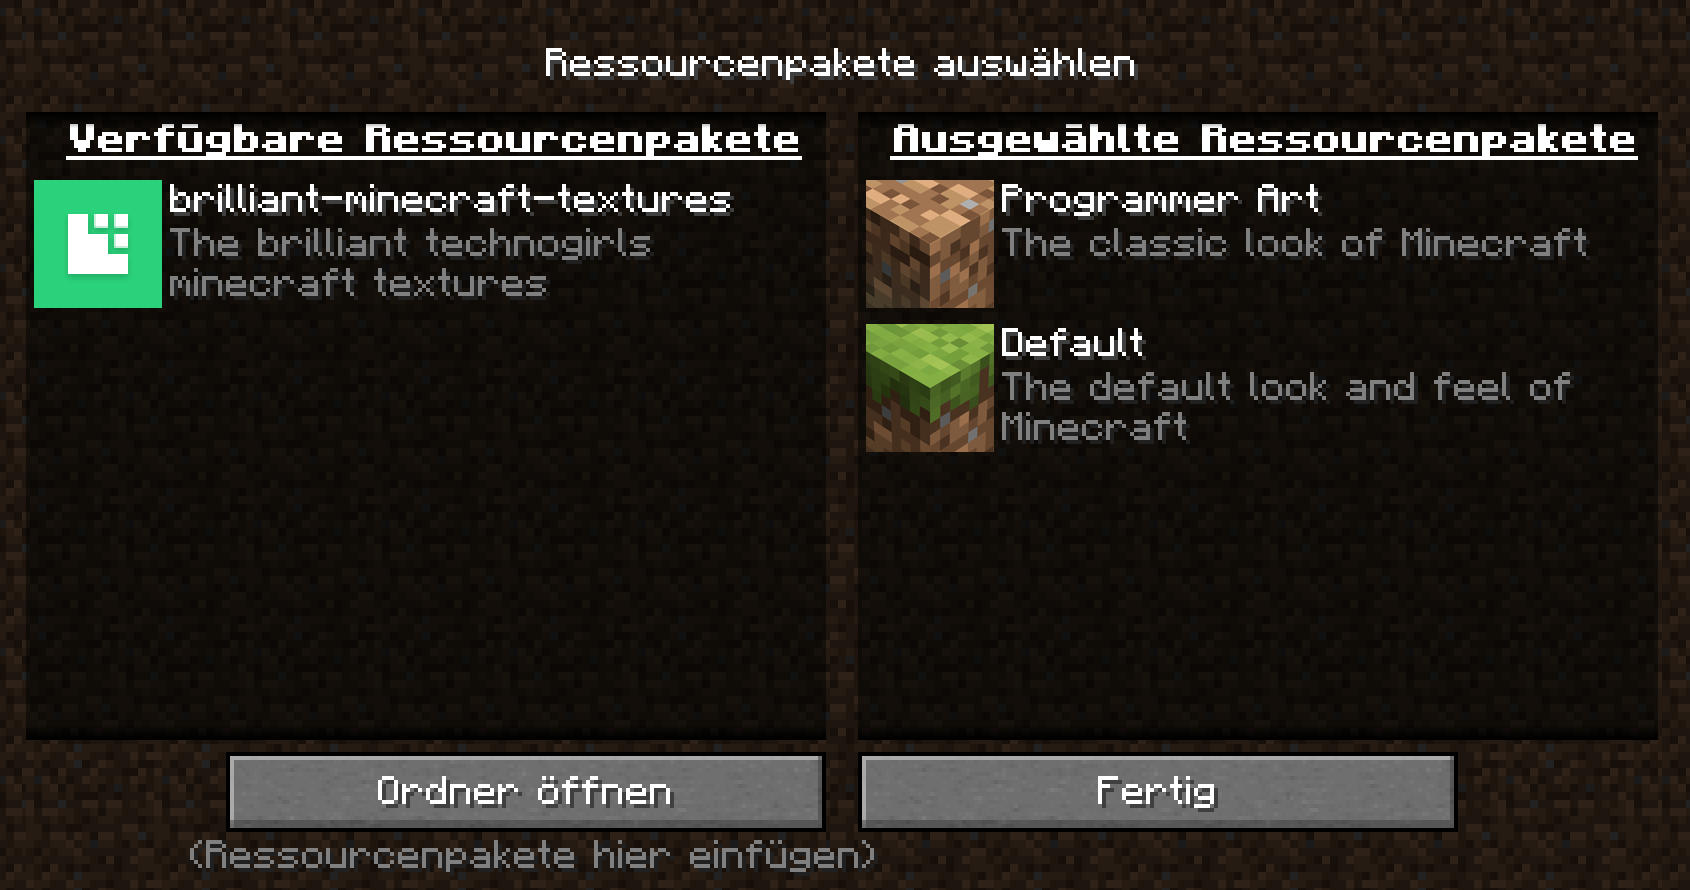
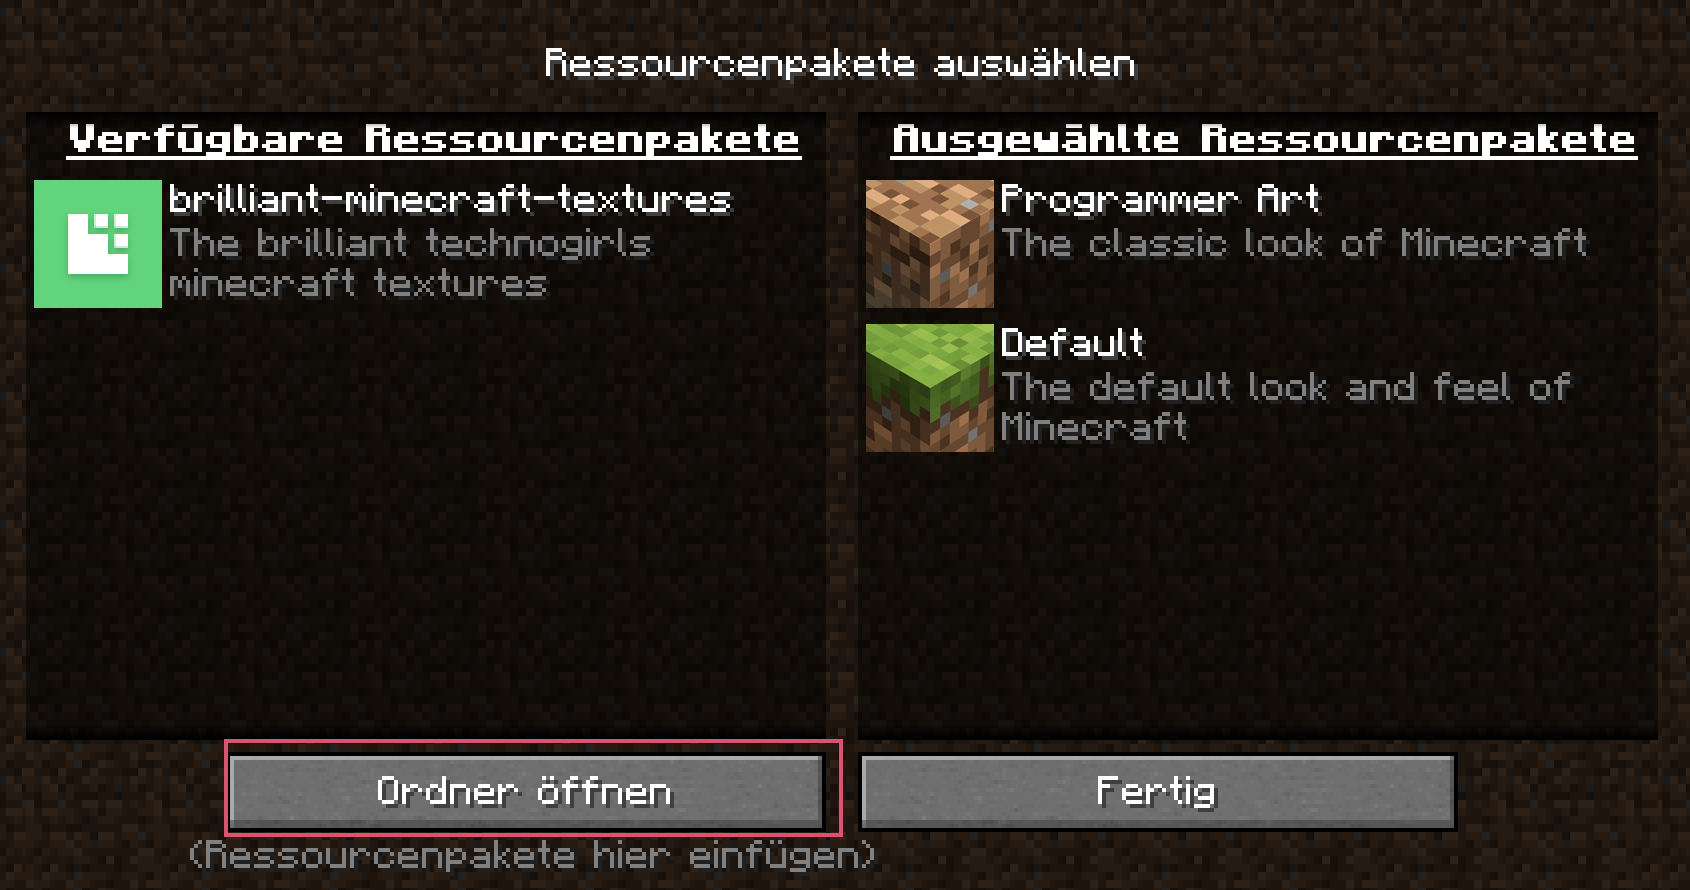
World + Resourcen

Changed region(s): [[0.0, 0.182, 0.1231, 0.364], [0.1231, 0.9101, 0.4923, 0.9404], [0.1231, 0.8191, 0.4923, 0.8494]]

diff --git a/readme.md b/readme.md
@@ -10,6 +10,8 @@ und in Minecraft - Resourcen Verzeichnis speichern.
 
 ![](resources.png)
 
+![](folder.png)
+
 Dann einfach nach rechts schieben.
 
 ![](right.png)
@@ -54,7 +56,7 @@ Wir haben geändert:
 * Diamant
 * Lapis
 
-![](files.png)
+![](blocks.png)
 
 und vieles mehr
 
